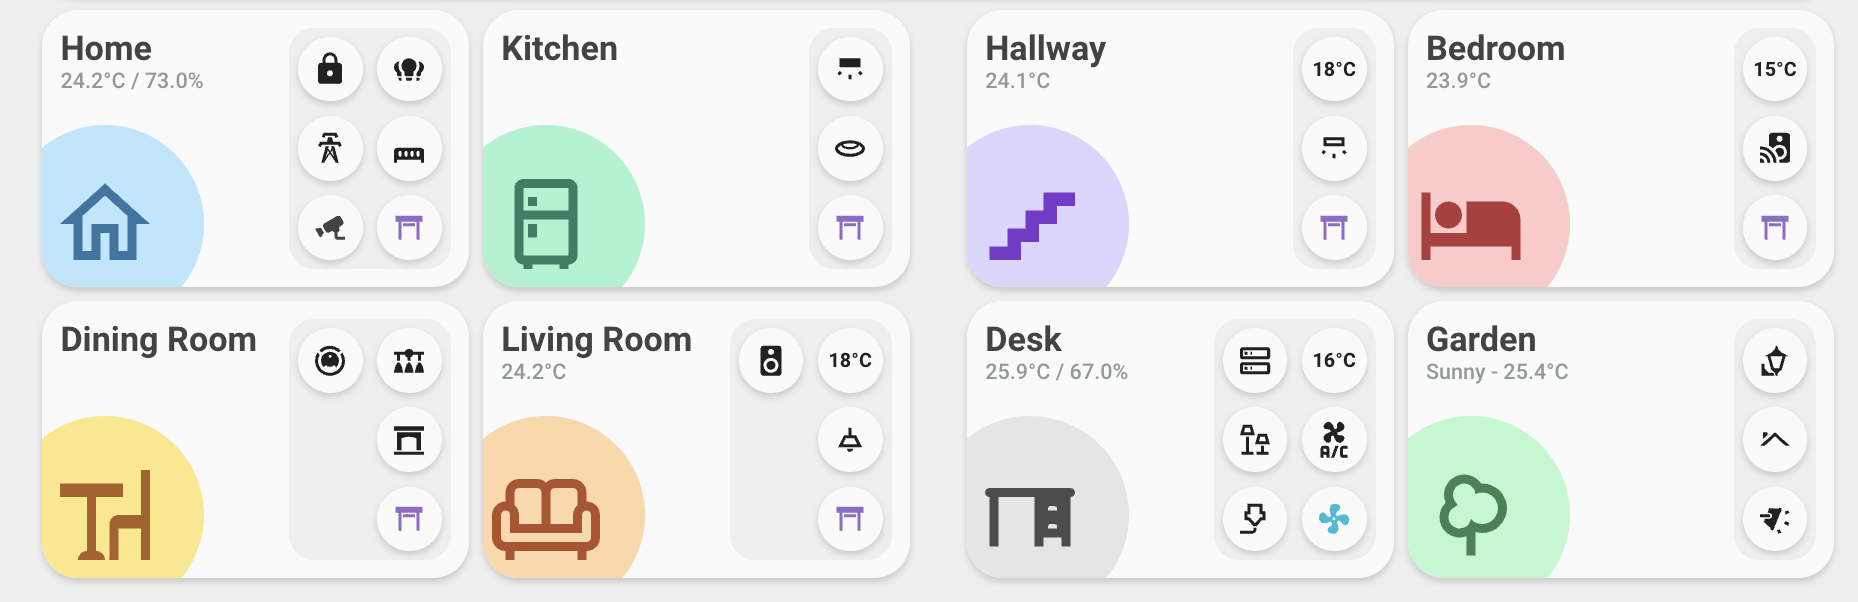
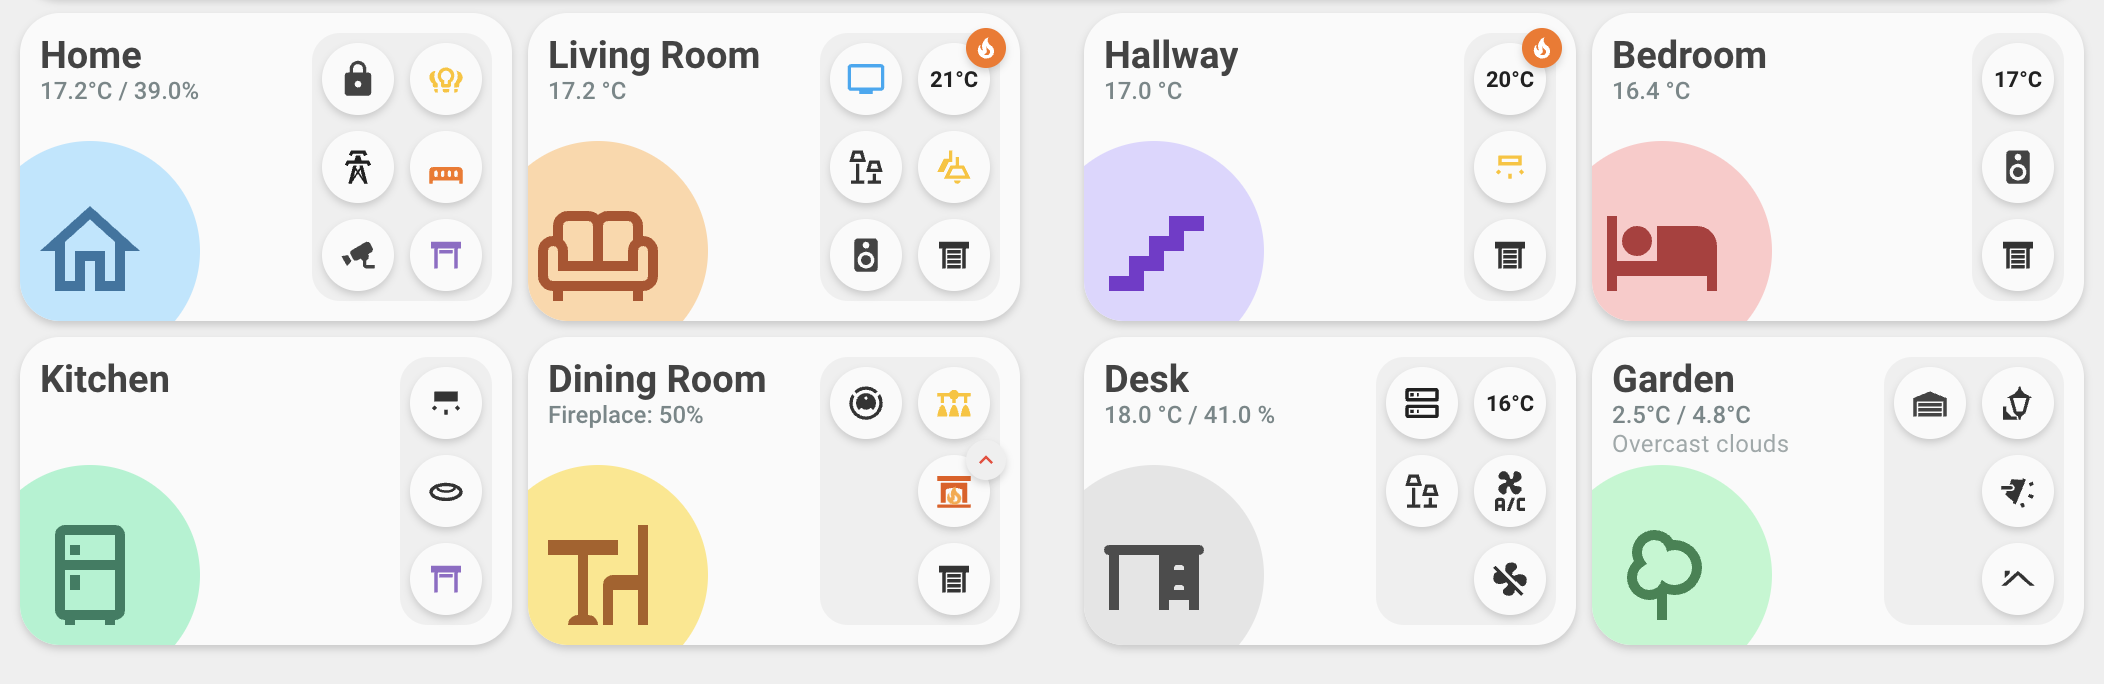
Add badge features for room cards

diff --git a/README.md b/README.md
@@ -15,11 +15,25 @@ Notifications that stack and expand on hover or touch. They support multiple act
 
 ![alt text](img/stacked_notifications.gif)
 
+**Features:**
+- **Stacking Behavior**: Multiple notifications stack vertically, with only the top one fully visible. Hovering or touching expands all notifications for easy access.
+- **Customizable Display**: Includes customizable icon, title, message, and timestamp (shows time if today, date and time otherwise).
+- **Badges**: Optional badges on notifications (e.g., warning icons or custom values) for additional context.
+- **Multiple Actions**: Each notification can have multiple action buttons (e.g., play, pause, dismiss).
+- **Close Button**: Built-in close button to manually dismiss notifications.
+- **Responsive Design**: Adapts to different screen sizes with smooth transitions and hover effects.
 
 #### Room Card
-A card for controlling multiple devices in a single room, with multiple actions available.
+A card for controlling multiple devices in a single room, with multiple actions available, configurable badges and more!
 
 ![alt text](img/room_card.png)
+
+**Features:**
+- **Room Overview**: Displays room name, icon, current state (e.g., temperature/humidity), and optional sub-state.
+- **Customizable Appearance**: Configurable background colors for the card and icon, allowing personalization to match your theme.
+- **Action Columns**: Actions are organized in vertical columns, each containing multiple buttons for device control.
+- **Flexible Actions**: Supports various tap actions such as toggle, more-info, navigate to other views, or call services.
+- **Badge Support**: Actions can have badges indicating status (types: success, info, warning, error, white) with icons or values, and support custom background and text colors for full customization.
 
 -----
 
